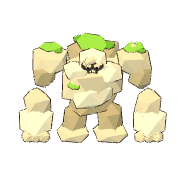
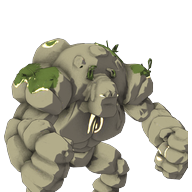
Ferme : icônes des 5 Craqueleurs refaites d'après les nouveaux modèles (en buste, Craqueboule en pied)

diff --git a/site/ferme/js/09-modeles.js b/site/ferme/js/09-modeles.js
@@ -173,7 +173,7 @@ const draco = new T.DRACOLoader(); draco.setDecoderPath('https://cdn.jsdelivr.ne
 const chargerGlbUneFois = (url) => new Promise((ok, ko) => chargeur.load(url, (gl) => ok(gl.scene), undefined, ko));
 const chargerGlb = (url, essais = 3) => chargerGlbUneFois(url).catch((e) => (essais > 1 ? new Promise((r) => setTimeout(r, 800)).then(() => chargerGlb(url, essais - 1)) : Promise.reject(e))); /* (trois essais : un modele rate ne fait plus planter le jeu plus tard, 16/10/2026) */
 const MODELES = {};
-const VERSION_MODELES = '20261117l'; /* a changer a chaque nouvel export des modeles : sinon le navigateur garde les anciens en cache */
+const VERSION_MODELES = '20261118a'; /* a changer a chaque nouvel export des modeles : sinon le navigateur garde les anciens en cache */
 /* un modele tire d'une planche : on le recentre, on le remet droit, on l'ajuste a la taille voulue (pied au sol, centre en 0) */
 /* comme gabarit, mais a une echelle donnee et centre sur un point donne (non mis a l'echelle) : les 5 niveaux d'un batiment gardent la meme echelle,
    le niveau 1 a la taille d'avant et les suivants grandissent vraiment */

diff --git a/site/ferme/index.html b/site/ferme/index.html
@@ -111,7 +111,7 @@
 <script src="js/06-temps.js?v=45814971f4"></script>
 <script src="js/07-actions.js?v=8588dcc55c"></script>
 <script src="js/08-scene.js?v=f7a00486cb"></script>
-<script src="js/09-modeles.js?v=27a179295f"></script>
+<script src="js/09-modeles.js?v=8a51870a1c"></script>
 <script src="js/10-ciel.js?v=cccc304ae0"></script>
 <script src="js/11-ferme-3d.js?v=f0e3a2bb89"></script>
 <script src="js/12-perso.js?v=34f9dd632f"></script>
